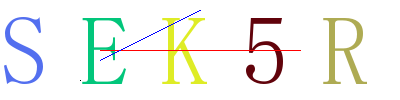
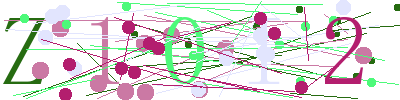
随机生成验证码增加圆点输出

diff --git a/graph-valid-code/generateValidCode.py b/graph-valid-code/generateValidCode.py
@@ -2,32 +2,37 @@
 import random
 from PIL import Image,ImageDraw,ImageFont
 
-# 创建图片，400x100 px，RGB=(255,255,255)
-img1 = Image.new(mode="RGB",size=(400,100),color=(255,255,255))
+# 创建图片
+width = 400
+height = 100
+img1 = Image.new(mode="RGB",size=(width,height),color=(255,255,255))
 
 # 创建画笔
 draw1 = ImageDraw.Draw(img1, mode="RGB")
 
 # 定义要使用的字体
 font1 = ImageFont.truetype('simsun.ttc',98)
-
+code = [0]*5 # 长度为5的数组，初始值为0
 for i in range(5):
     # 随机从a~z或者0~9中抽取一个字母或数字。char()表示将ASCII码转为字符
     char1 = random.choice([chr(random.randint(65,90)),str(random.randint(0,9))])
+    code[i] = char1
 
     # 随机生成颜色
     color1 = (random.randint(0,255),random.randint(0,255),random.randint(0,255))
     
     # 把生成的字母或数字添加到图片上
-    draw1.text([i*80,0],char1,color1,font=font1)
+    draw1.text([i*(400/5),0],char1,color1,font=font1)
     
-    # 生成一个红点一个黑点
-    draw1.point([100,100],fill="red")
-    draw1.point([80,80],fill=(0,0,0))
-    
-    # 画两条线，前两个数是开始坐标，后两个数是结束坐标
-    draw1.line((100,50,300,50),fill="red")
-    draw1.line((100,60,200,10),fill="blue")
+    # 生随机生成10个点,随机生成10条线
+    radio = random.randint(3,8) # 圆点的半径
+    for j in range(10):
+        c1,c2 = (random.randint(radio,width-radio),random.randint(radio,height-radio)) # 圆心位置
+        draw1.ellipse((c1-radio,c2-radio,c1+radio,c2+radio), fill = color1, outline =color1)
+        draw1.line((random.randint(0,400),random.randint(0,100),random.randint(0,400),random.randint(0,100)),fill=color1)
+
+# 验证码输出
+print("验证码为",code)
 
 # 保存
 with open("pic.png","wb") as f:
